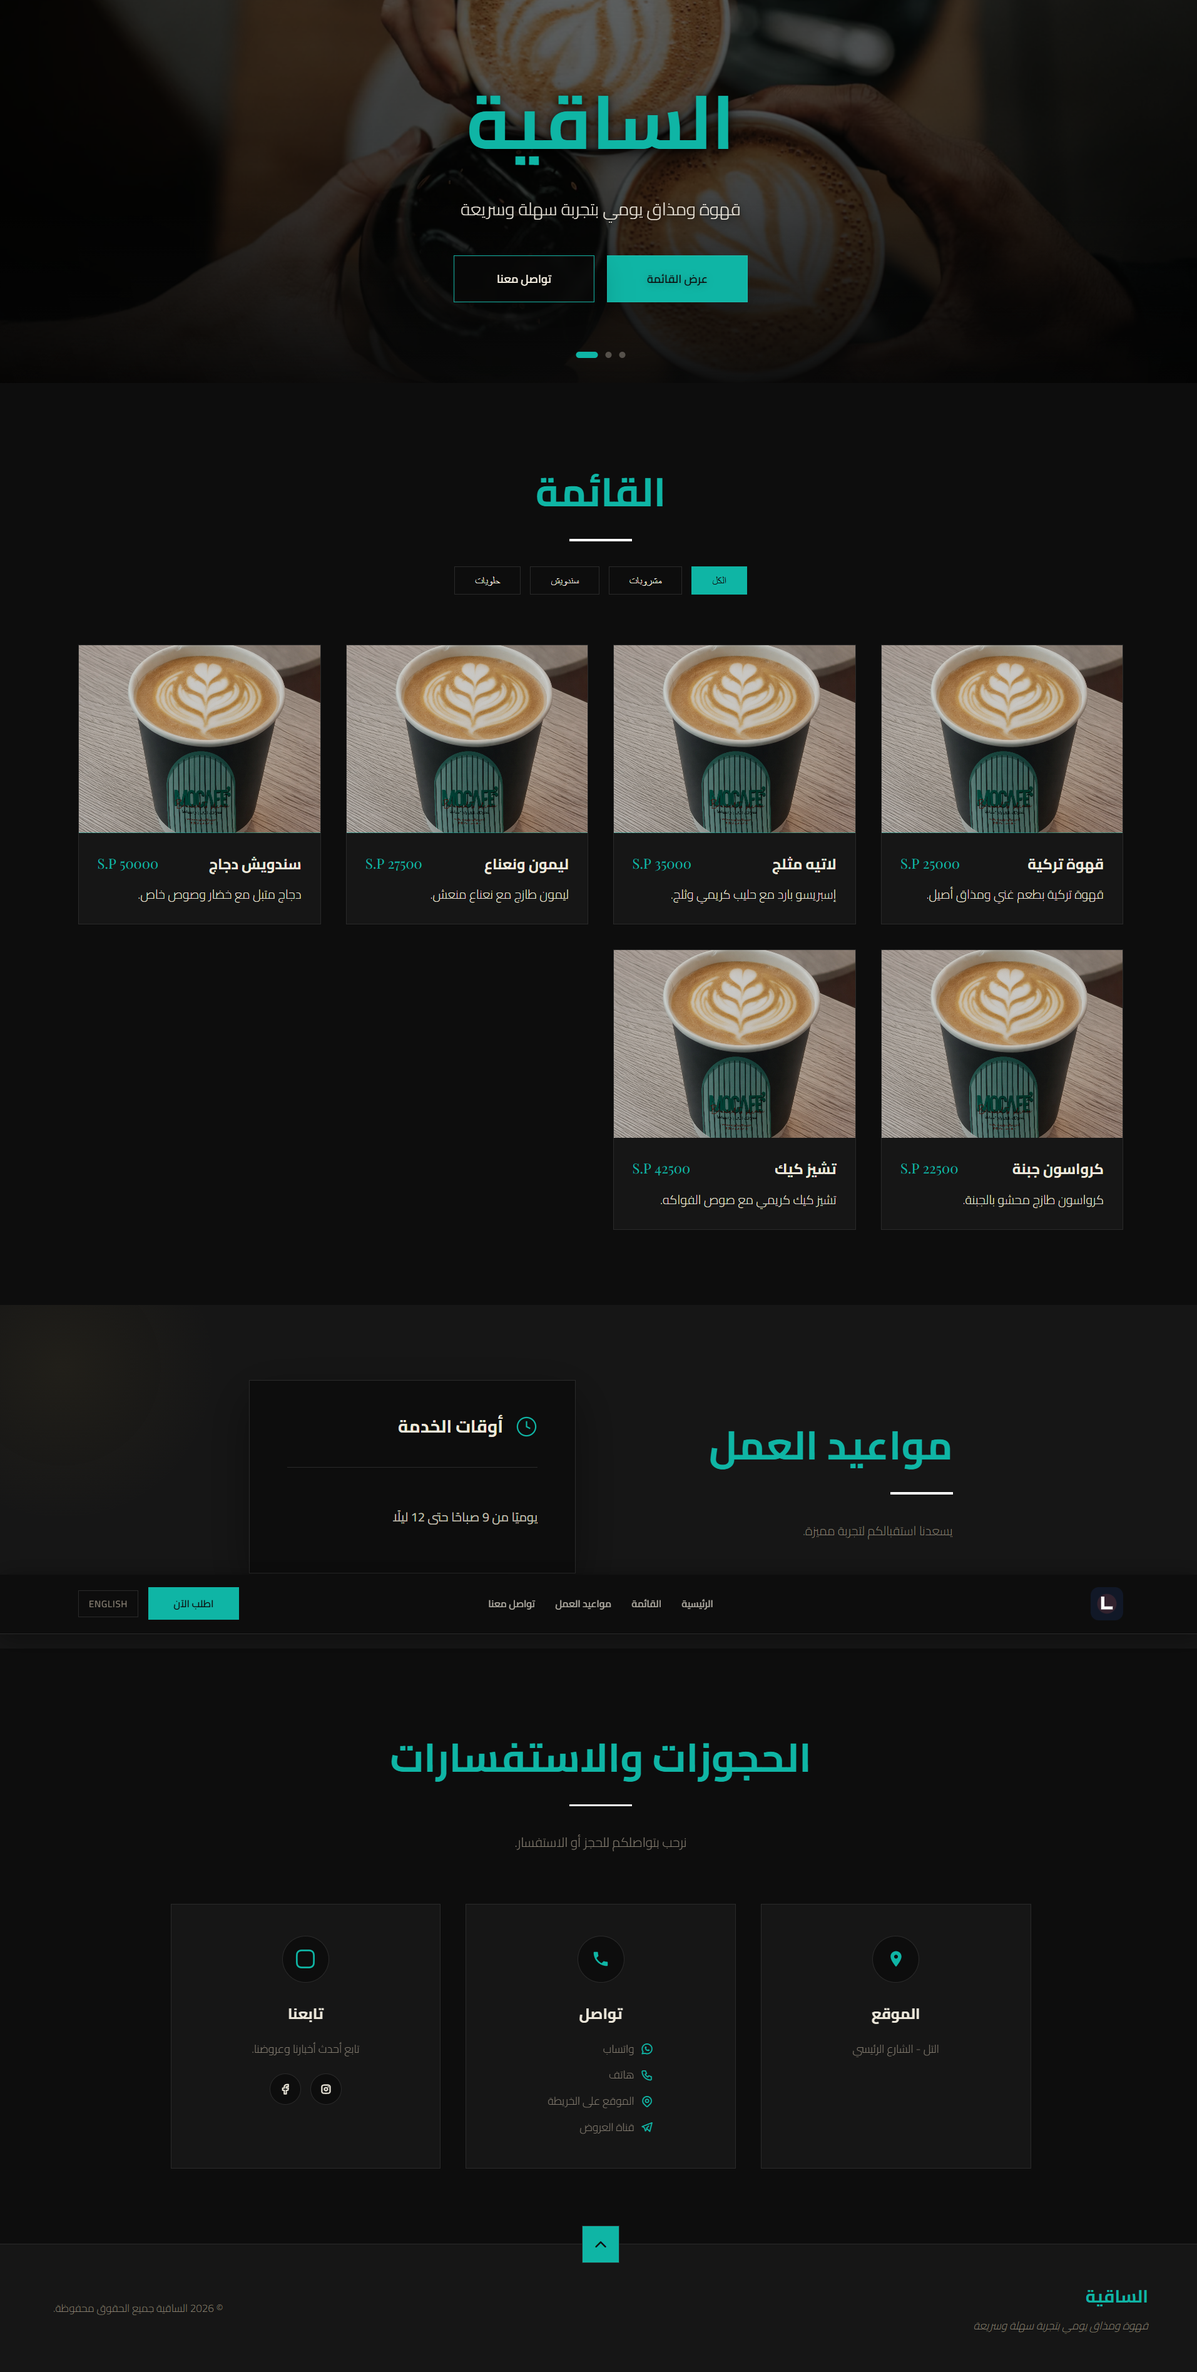
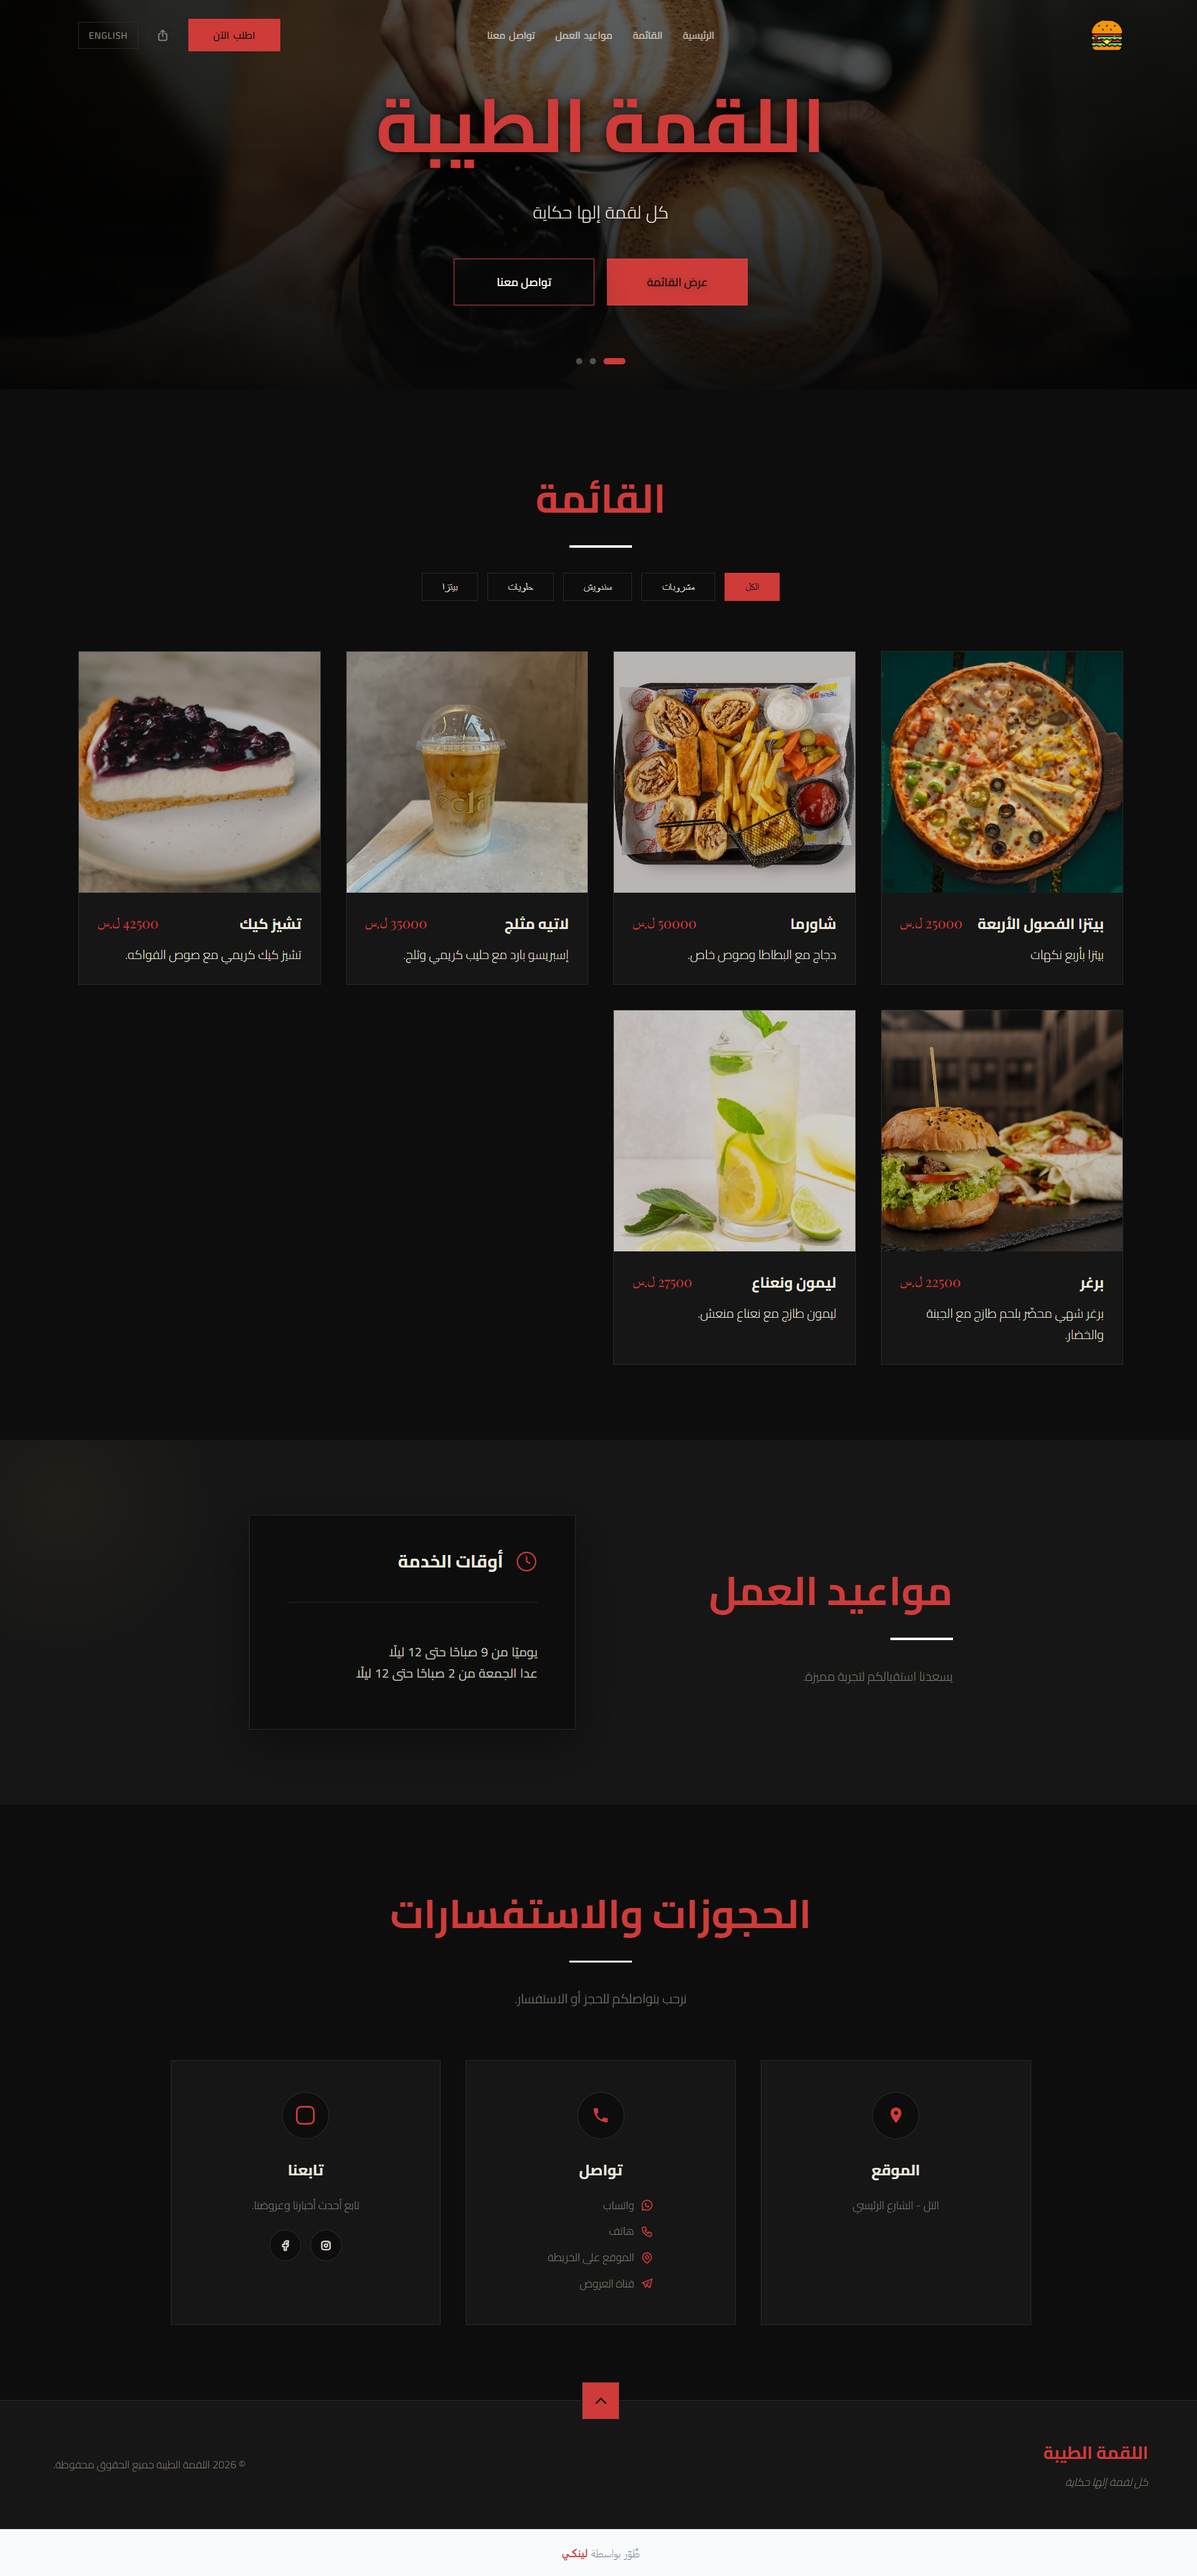
fix resize image

diff --git a/app/Services/WebImageOptimizer.php b/app/Services/WebImageOptimizer.php
@@ -3,6 +3,7 @@
 namespace App\Services;
 
 use Illuminate\Http\UploadedFile;
+use Illuminate\Support\Facades\Log;
 use Illuminate\Support\Facades\Storage;
 use Illuminate\Support\Str;
 use RuntimeException;
@@ -34,7 +35,19 @@ class WebImageOptimizer
 
         try {
             $image = $this->orientJpeg($image, $file);
-            $image = $this->resize($image, $maxLongestSide, $maxWidth);
+            $resized = $this->resize($image, $maxLongestSide, $maxWidth);
+
+            if ($resized === false) {
+                Log::warning('Image resize failed; storing the original uploaded image.', [
+                    'mime_type' => $file->getMimeType(),
+                    'original_name' => $file->getClientOriginalName(),
+                    'directory' => $directory,
+                ]);
+
+                return $this->storeOriginal($file, $directory);
+            }
+
+            $image = $resized;
             $relativePath = trim($directory, '/').'/'.Str::uuid().'.webp';
             $absolutePath = Storage::disk('public')->path($relativePath);
 
@@ -82,7 +95,7 @@ class WebImageOptimizer
         return $rotated;
     }
 
-    private function resize(\GdImage $image, ?int $maxLongestSide, ?int $maxWidth): \GdImage
+    private function resize(\GdImage $image, ?int $maxLongestSide, ?int $maxWidth): \GdImage|false
     {
         $width = imagesx($image);
         $height = imagesy($image);
@@ -100,19 +113,51 @@ class WebImageOptimizer
             return $image;
         }
 
-        $resized = imagescale(
-            $image,
-            max(1, (int) round($width * $scale)),
-            max(1, (int) round($height * $scale)),
-            IMG_BICUBIC_FIXED,
-        );
+        $newWidth = max(1, (int) round($width * $scale));
+        $newHeight = max(1, (int) round($height * $scale));
+        $resized = imagecreatetruecolor($newWidth, $newHeight);
 
         if ($resized === false) {
-            throw new RuntimeException('The uploaded image could not be resized.');
+            return false;
+        }
+
+        imagealphablending($resized, false);
+        imagesavealpha($resized, true);
+        $transparent = imagecolorallocatealpha($resized, 0, 0, 0, 127);
+        imagefill($resized, 0, 0, $transparent);
+
+        $copied = imagecopyresampled(
+            $resized,
+            $image,
+            0,
+            0,
+            0,
+            0,
+            $newWidth,
+            $newHeight,
+            $width,
+            $height,
+        );
+
+        if (! $copied) {
+            imagedestroy($resized);
+
+            return false;
         }
 
         imagedestroy($image);
 
         return $resized;
+    }
+
+    private function storeOriginal(UploadedFile $file, string $directory): string
+    {
+        $path = $file->store($directory, 'public');
+
+        if ($path === false) {
+            throw new RuntimeException('The original uploaded image could not be saved.');
+        }
+
+        return $path;
     }
 }
